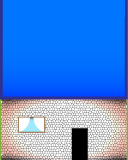
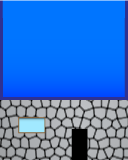
Cambios en la perspectiva * Nuevo mapa "casas y árboles", que demuestra parte del poder de la nueva perspectiva. * Eliminado el viejo "casa y arboles", que tenia una menor resolución y venia a demostrar la misma perspectiva.
update issue 33
Solucionado (desde la versión anterior) el tema de quedarse atrapado en un mob. Efectivamente era un ligerísimo cambio que había que hacerle a stage.mover().
Esta version trae un mapa nuevo que viene a demostrar mejor el cambio de perspectiva.

diff --git a/trunk/mobs/Mob.py b/trunk/mobs/Mob.py
@@ -30,9 +30,9 @@ class Mob (_giftSprite):
     fuerza = 0 # capacidad del mob para empujar cosas.
     
     def __init__(self, ruta_img,stage,x=None,y=None,data = None,alpha = False):
-        maskeys=['S'+'abajo','S'+'arriba','S'+'derecha','S'+'izquierda',
-                 'I'+'abajo','I'+'arriba','I'+'derecha','I'+'izquierda',
-                 'D'+'abajo','D'+'arriba','D'+'derecha','D'+'izquierda']
+        maskeys=['S'+'abajo','S'+'arriba','S'+'derecha','S'+'izquierda', # Standing
+                 'I'+'abajo','I'+'arriba','I'+'derecha','I'+'izquierda', # paso Izquierdo
+                 'D'+'abajo','D'+'arriba','D'+'derecha','D'+'izquierda'] # paso Derecho
 
         spritesheet = r.split_spritesheet(ruta_img)
         self.images = {} # si no lo redefino, pasan cosas raras...
@@ -44,7 +44,6 @@ class Mob (_giftSprite):
                 self.mascaras[key] = mask.from_threshold(_alpha, C.COLOR_COLISION, (1,1,1,255))
             self.mask  = self.mascaras['Sabajo']
         self.camino = [] # si no lo redefino, pasan cosas raras...
-        self.generar_rasgos()
         for key in maskeys:
             self.images[key] = spritesheet[maskeys.index(key)]
         self.image = self.images['Sabajo']
@@ -93,7 +92,10 @@ class Mob (_giftSprite):
         
         for car in rasgos['cars']:
             if rasgos['cars'][car]:
-                self.show[car] = {"tipo": "atributo", "nombre":car, "value": 0}
+                if car == "Fuerza":
+                    self.show[car] = {"tipo": "atributo", "nombre":car, "value": self.fuerza}
+                else:
+                    self.show[car] = {"tipo": "atributo", "nombre":car, "value": 0}
             else:
                 self.hide[car] = {"tipo": "atributo", "nombre":car, "value": 0}
         
@@ -104,14 +106,14 @@ class Mob (_giftSprite):
                 self.hide[hab] = {"tipo": "habilidad", "nombre":hab, "value": 0}
                 
         #print(self.nombre)
-        #for car in self.cars:
-        #    if self.cars[car]['show']:
-        #        print(car, self.cars[car]["value"])
-        #for hab in self.habs:
-        #    if self.habs[hab]['show']:
-        #        print(hab, self.habs[hab]["value"])
+        #for rasgo in self.show:
+        #    if self.show[rasgo]['tipo'] == "atributo":
+        #        print(self.show[rasgo]['nombre'],self.show[rasgo]["value"])
         #print()
-        
+        #for rasgo in self.show:
+        #    if self.show[rasgo]['tipo'] == "habilidad":
+        #        print(self.show[rasgo]['nombre'],self.show[rasgo]["value"])
+        #print()
         pass # just a hook to fold the function
 
     def cambiar_direccion(self,arg):

diff --git a/trunk/mobs/PC.py b/trunk/mobs/PC.py
@@ -41,7 +41,8 @@ class PC (Mob):
         self.timer_animacion = 0
         self.inventario = Inventory(10)
         self.estado = 'idle'
-                
+        self.generar_rasgos()
+        
     def reubicar(self, dx, dy):
         '''mueve el sprite una cantidad de cuadros'''
         self.mapX += dx
@@ -69,8 +70,10 @@ class PC (Mob):
             
             if self.estado == 'idle':
                 self.image = self.images[img_dir]
+                self.mask = self.mascaras[img_dir]
             elif self.estado == 'cmb':
                 self.image = self.cmb_walk_img[img_dir]
+                self.mask = self.cmb_walk_alpha[img_dir]
                 
         self.direccion = direccion
     
@@ -128,6 +131,7 @@ class PC (Mob):
             if self.atk_img_index > len(frames)-1:
                 self.atk_img_index = 0
                 self.atacando = False
+                self.mask = self.cmb_walk_alpha['S'+self.direccion]
             
             self.image = frames[self.atk_img_index]
             self.mask = alphas[self.atk_img_index]
@@ -167,10 +171,12 @@ class PC (Mob):
     def cambiar_estado(self):
         if self.estado == 'idle':
             self.image = self.cmb_walk_img['S'+self.direccion]
+            self.mask = self.cmb_walk_alpha['S'+self.direccion]
             self.estado = 'cmb'
             
         elif self.estado == 'cmb':
             self.image = self.images['S'+self.direccion]
+            self.mask = self.mascaras['S'+self.direccion]
             self.estado = 'idle'
         self.cambiar_direccion(self.direccion)
         self.dirty = 1

diff --git a/trunk/mapa.py b/trunk/mapa.py
@@ -100,7 +100,6 @@ class Stage:
         elif capa == 'top':
             _layer = C.CAPA_TOP_ITEMS
         
-        i = -1
         for ref in POS:
             for x,y in POS[ref]:
                 if ref in data:
@@ -187,7 +186,7 @@ class Stage:
 
         # chequea el que héroe no atraviese a los mobs
         for spr in self.properties.get_sprites_from_layer(C.CAPA_GROUND_MOBS):
-            if h.mask.overlap(spr.mask,(spr.mapX-(h.mapX-dx),spr.mapY-(h.mapY-dx)))!=None:
+            if h.mask.overlap(spr.mask,(spr.mapX-(h.mapX-dx),spr.mapY-(h.mapY-dy)))!=None:
                 if spr.solido:
                     dx,dy = 0,0
                     

diff --git a/trunk/mobs/Enemy.py b/trunk/mobs/Enemy.py
@@ -8,6 +8,7 @@ class Enemy (Mob):
         super().__init__(ruta_img,stage,x,y,data)
         self.nombre = nombre
         #self.atk_img = self.cargar_anims('mobs/'+nombre+'_atk.png',['A','B','C'])
+        self.generar_rasgos()
         
     def atacar(self):
         pass

diff --git a/trunk/mobs/NPC.py b/trunk/mobs/NPC.py
@@ -12,6 +12,7 @@ class NPC (Mob):
         MobGroup.add(self)
         if 'quest' in data:
             QuestManager.add(data['quest'])
+        self.generar_rasgos()
     
     def hablar(self, onSelect, opcion=1):
         if len(self.dialogos) == 0:
